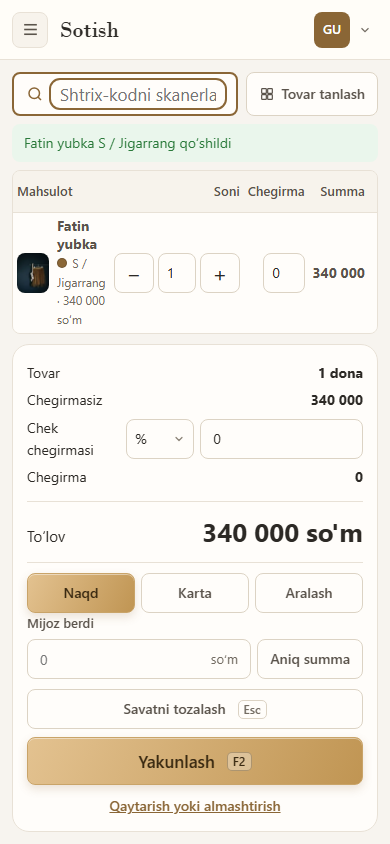
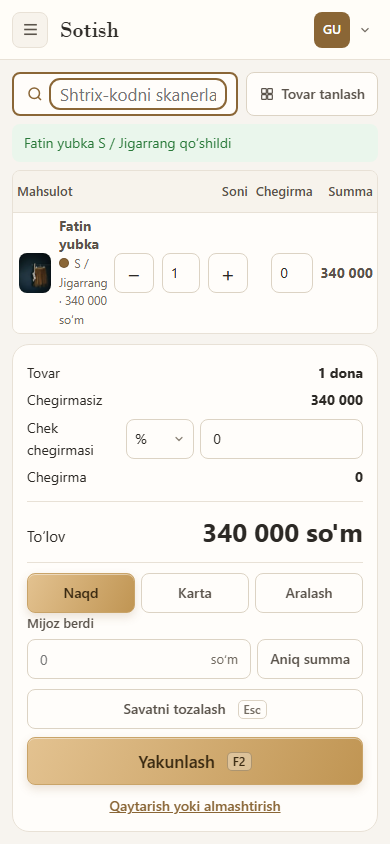
README, hardware, and roadmap documents updated; added new features and clarified agent behavior. Updated tests and improved UI layout in PosView.

diff --git a/front/tests/pos.spec.ts b/front/tests/pos.spec.ts
@@ -10,6 +10,7 @@ import { expect, test, type Page } from '@playwright/test'
 import {
   createSimpleProduct,
   createTestProduct,
+  fakeAgent,
   login,
   moveToWarehouse,
   openApp,
@@ -264,6 +265,64 @@ test('o‘lchamsiz va rangsiz tovar bir bosishda savatga tushadi', async ({ page
   await expect(row).toHaveCount(1)
   await expect(row.first()).toContainText(ring.name)
   await expect(page.locator('.variant-grid')).toHaveCount(0)
+})
+
+test.describe('chop etish agenti', () => {
+  /** Brauzer oynasi ochilganini sanaydi */
+  async function countPrints(page: Page) {
+    await page.addInitScript(() => {
+      Object.assign(window, { __printed: 0 })
+      window.print = () => {
+        Object.assign(window, { __printed: (window as { __printed?: number }).__printed! + 1 })
+      }
+    })
+  }
+
+  /** Savatga tovar qo'shib, naqd to'lov bilan yakunlaydi */
+  async function sell(page: Page) {
+    await addFromPicker(page)
+    await page.locator('.cash-row input').fill('300000')
+    await page.keyboard.press('F2')
+
+    await expect(page.getByTestId('change-amount')).toBeVisible()
+  }
+
+  test('agent ishlayotganda chek brauzer oynasisiz chiqadi', async ({ page }) => {
+    const calls = await fakeAgent(page)
+
+    await countPrints(page)
+    await openApp(page, admin, '/', { agent: 'fake' })
+    await sell(page)
+
+    await expect
+      .poll(() => calls.filter((path) => path === '/receipt').length)
+      .toBe(1)
+
+    expect(
+      await page.evaluate(() => (window as { __printed?: number }).__printed),
+      'brauzer oynasi ochildi',
+    ).toBe(0)
+  })
+
+  test('kech ko‘tarilgan agent keyingi chekda ishlatiladi', async ({ page }) => {
+    // Kompyuter yoqilganda brauzer agentdan oldin ochiladi: sahifa
+    // yuklanishidagi tekshiruv yiqiladi, lekin bu oxirgi so'z emas
+    const calls = await fakeAgent(page, { upFrom: 1 })
+
+    await countPrints(page)
+    await openApp(page, admin, '/', { agent: 'fake' })
+
+    await expect.poll(() => calls.length).toBeGreaterThan(0)
+    expect(calls[0], 'yuklanishdagi tekshiruv yiqilishi kerak edi').toBe('yiqilgan')
+
+    await sell(page)
+
+    await expect
+      .poll(() => calls.filter((path) => path === '/receipt').length)
+      .toBe(1)
+
+    expect(await page.evaluate(() => (window as { __printed?: number }).__printed)).toBe(0)
+  })
 })
 
 test.describe('kassa ekrani 1366×768', () => {

diff --git a/front/tests/data.ts b/front/tests/data.ts
@@ -71,8 +71,22 @@ export async function login(request: APIRequestContext, username = 'admin'): Pro
   return { access: body.access, refresh: body.refresh }
 }
 
-/** Tokenlarni brauzerga qo'yib, sahifani ochadi. */
-export async function openApp(page: Page, session: Session, path: string) {
+/** Chop etish agentining manzili — brauzerdan shu yerga murojaat qilinadi */
+const AGENT = 'http://127.0.0.1:7777/**'
+
+/**
+ * Tokenlarni brauzerga qo'yib, sahifani ochadi.
+ *
+ * Standart holda chop etish agenti «yo'q» deb javob beradi: testlarning
+ * ko'pi chop etishga aloqador emas. Agent bilan ishlaydigan test
+ * `agent: 'fake'` beradi va marshrutni o'zi belgilaydi.
+ */
+export async function openApp(
+  page: Page,
+  session: Session,
+  path: string,
+  { agent = 'off' }: { agent?: 'off' | 'fake' } = {},
+) {
   await page.addInitScript(
     ([access, refresh]) => {
       localStorage.setItem('access_token', access as string)
@@ -81,10 +95,41 @@ export async function openApp(page: Page, session: Session, path: string) {
     [session.access, session.refresh],
   )
 
-  // Chop etish agenti bu testlarga aloqasi yo'q
-  await page.route('http://127.0.0.1:7777/**', (route) => route.abort('connectionrefused'))
+  if (agent === 'off') {
+    await page.route(AGENT, (route) => route.abort('connectionrefused'))
+  }
 
   await page.goto(path)
+}
+
+/**
+ * Ishlayotgan chop etish agentini taqlid qiladi.
+ *
+ * `openApp` dan OLDIN chaqiriladi va unga `agent: 'fake'` beriladi.
+ * Qaytgan ro'yxatga agent qabul qilgan yo'llar tushadi: `/health`,
+ * `/receipt`, `/labels`.
+ */
+export async function fakeAgent(page: Page, { upFrom = 0 } = {}): Promise<string[]> {
+  const calls: string[] = []
+
+  await page.route(AGENT, async (route) => {
+    // `upFrom` — agent shuncha so'rovdan keyin ko'tariladi. Kun boshida
+    // brauzer agentdan oldin ochilgan holatni shunday sinaymiz.
+    if (calls.length < upFrom) {
+      calls.push('yiqilgan')
+      return route.abort('connectionrefused')
+    }
+
+    calls.push(new URL(route.request().url()).pathname)
+
+    await route.fulfill({
+      status: 200,
+      contentType: 'application/json',
+      body: JSON.stringify({ version: 'sinov', codePage: 'cp1252', printers: [] }),
+    })
+  })
+
+  return calls
 }
 
 function headers(access: string) {

diff --git a/front/src/views/PosView.vue b/front/src/views/PosView.vue
@@ -918,7 +918,13 @@ onBeforeUnmount(() => window.removeEventListener('keydown', onKeydown))
 /* Savat tor ustunda: katakchalar orasidagi bo'shliq kamaytirildi */
 .cart-table th,
 .cart-table td {
-  padding-right: 6px;
+  padding-right: 9px;
+  padding-left: 9px;
+}
+
+/* Tovar ustuni qolgan joyni oladi: nom qatorga bo'linmasin */
+.cart-table td:first-child {
+  padding-right: 2px;
   padding-left: 6px;
 }
 
@@ -966,14 +972,15 @@ onBeforeUnmount(() => window.removeEventListener('keydown', onKeydown))
 }
 
 .cart-number.discount {
-  width: 56px;
+  width: 50px;
 }
 
 
+/* Tugmalar orasi barmoq uchun: bir-biriga tegib turmasin */
 .quantity {
   display: inline-flex;
   align-items: center;
-  gap: 4px;
+  gap: 8px;
 }
 
 /* Barmoq uchun katta nishon */

diff --git a/front/src/stores/agent.ts b/front/src/stores/agent.ts
@@ -37,7 +37,12 @@ export const useAgentStore = defineStore('agent', () => {
    * `false` qaytadi: chek yo'qolmasin, brauzer orqali chiqsin.
    */
   async function trySend(send: () => Promise<void>, done: string): Promise<boolean> {
-    if (!available.value) return false
+    // Agent brauzerdan keyin ko'tarilgan bo'lishi mumkin: kompyuter
+    // yoqilganda brauzer avval ochiladi, printer esa sug'urilib-ulanadi.
+    // Shuning uchun «yo'q» degan javob oxirgi so'z emas — har chop
+    // etishdan oldin bir marta qayta so'raymiz. Usiz kun boshida bitta
+    // muvaffaqiyatsiz tekshiruv butun kunni brauzer oynasiga bog'lardi.
+    if (!available.value && !(await probe())) return false
 
     const toast = useToastStore()
 

diff --git a/docs/roadmap.md b/docs/roadmap.md
@@ -20,6 +20,8 @@ Holat: **2026-09-18**.
 | **Xodimlar** | Qo'shish, rol, parolni almashtirish, bloklash |
 | **Sozlamalar** | Do'kon nomi, yorliq o'lchami, kassir chegirma chegarasi |
 | **Chop etish agenti** | Chek va yorliq to'g'ridan-to'g'ri printerga: oyna ochilmaydi, qog'oz bo'shga ketmaydi |
+| **Ombor va savdo zali** | Qoldiq ikki joyda alohida; ko'chirish hujjati; kassa faqat zaldagini sotadi |
+| **Mahsulot rasmi** | Har tovarga majburiy, har rangga alohida surat; kassa savatida va ro'yxatlarda ko'rinadi |
 
 Testlar: **backend 95, frontend 44, agent 85, chop etish 10** — hammasi
 o'tadi.
@@ -45,27 +47,34 @@ murakkablik bo'lardi.
 
 ## Qolgan ish
 
-### Ishga tushirishga to'sqinlik qiladigan yagona narsa: fiskal modul
+**Dastur tayyor, o'rnatish tugallanmagan.** Kod yozilgan va sinalgan,
+server ishlayapti — lekin do'konni shu tizimda ochishdan oldin
+quyidagilar bajarilishi kerak. Tartib muhim: yuqoridagisi pastdagisiga
+to'sqinlik qiladi.
 
-Qolgan hamma narsa tayyor. Chek soliq tizimida ro'yxatdan o'tmasa,
-do'kon qonuniy ishlay olmaydi — shuning uchun **birinchi navbatda shu
-qaror qabul qilinishi kerak**:
-
-| Variant | Nimani anglatadi |
+| Nima | Nega kerak |
 |---|---|
-| **Ro'yxatdan o'tgan virtual kassa provayderi (API bilan)** | Dastur chekni provayder API siga yuboradi. Ulash nuqtasi tayyor: `apps/sales/fiscal.py` dagi `FiscalProvider` ni amalga oshirish kifoya. Soliq tasnifi kodi (MXIK) olib tashlangan — provayder ulanadigan bo'lsa, u qaytariladi |
-| **Alohida onlayn-NKM apparati** | Kassir chekni alohida qurilmada ham chiqaradi. Dasturga o'zgarish kam, lekin kassir har sotuvni ikki marta kiritadi |
+| **Chop etish agentini kassa kompyuteriga o'rnatish** | Usiz har chek va yorliqda brauzer oynasi ochiladi, kassir qo'lda **Print** bosadi. Yorliq ham hira chiqadi: brauzer shtrix-kodni rasm qilib chizadi. Tartib: `agent/README.md` |
+| **`kassa` foydalanuvchisi** | `createsuperuser` bilan yaratilgani uchun u **administrator** — tannarx, foyda va hisobotlarni ko'radi. Roli kassirga o'zgartirilsin, paroli kuchli bo'lsin: sayt ochiq internetda |
+| **Zaxirani serverdan tashqariga chiqarish** | Hozir nusxa serverning o'zida yotadi. Server ishdan chiqsa zaxira ham u bilan ketadi (`docs/deployment.md`, 7-bo'lim) |
+| **Skanerni uchidan-uchiga sinash** | Rus klaviaturasi yoqilganda ham kod to'g'ri o'qilishi tekshirilsin (`docs/hardware.md`, 4-bo'lim) |
+| **Qayta yuklashni sinash** | `sudo reboot` dan keyin hammasi o'zi ko'tarilishi kerak: konteynerlar, baza, agent |
+| **Boshlang'ich ma'lumot** | Kategoriya, o'lcham, rang, xodimlar; keyin birinchi kirim |
 
-Birinchi variant afzal: kassir bitta ish qiladi va xato kamayadi.
-Lekin provayder tanlash — texnik emas, tashkiliy qaror (shartnoma,
-narx, qo'llab-quvvatlash).
+### Fiskal modul
 
-### Boshqa qolgan ishlar
+Do'kon soliq tizimi bilan integratsiya qilmaydi — bu buyurtmachining
+qarori. Ulash nuqtasi kodda qoldirilgan (`apps/sales/fiscal.py` dagi
+`FiscalProvider`): kerak bo'lsa provayder ulanadi va soliq tasnifi
+kodi (MXIK) qaytariladi.
+
+### Keyinroq foydali bo'lishi mumkin
 
 | Nima | Izoh |
 |---|---|
-| **Mahsulot rasmi** | Model tayyor (`Product.photo`), interfeysda yuklash yo'q |
 | **Excel'dan mahsulot import qilish** | Do'konda yuzlab pozitsiya bo'lsa qo'l bilan kiritish uzoq |
+| **Ombor strukturasi** (javon, polka) | Hozir kerak emas: ombor kichik va unda tovar ko'p saqlanmaydi |
+| **O'lchamlarni kategoriya bo'yicha ajratish** | Kiyim (S, M, L) va oyoq kiyim (36–41) bitta ro'yxatda. Ro'yxat uzayib ketsa kerak bo'ladi |
 
 ---
 

diff --git a/README.md b/README.md
@@ -101,7 +101,7 @@ cd agent && npm test                                  # 90 ta
 
 ### Interfeys testlari — alohida bazada
 
-Playwright haqiqiy brauzerda ilovani tekshiradi (78 ta): navigatsiya va
+Playwright haqiqiy brauzerda ilovani tekshiradi (80 ta): navigatsiya va
 tuzilma, tovarlar sahifasi, sotish, tovar qabul qilish (uch qadam: yangi
 tovar, o'lcham × rang katakchasi, yorliq), ombordan zalga chiqarish,
 telefon o'lchami, chop etish (sahifalar soni va o'lchami chiqqan PDF dan

diff --git a/docs/hardware.md b/docs/hardware.md
@@ -355,7 +355,8 @@ agent javob bermayapti degani. Ikki sabab bo'ladi:
 
 1. **Agent ishlamayapti.** Tekshiring:
    <http://127.0.0.1:7777/health> — printerlar ro'yxati JSON bo'lib
-   chiqishi kerak.
+   chiqishi kerak. Agentni kechroq ishga tushirsangiz sahifani
+   yangilash shart emas: ilova har chop etishdan oldin qayta so'raydi.
 2. **`origins` da do'kon domeni yo'q.** `agent/config.json` da
    ilovaning haqiqiy manzili turishi shart:
 
